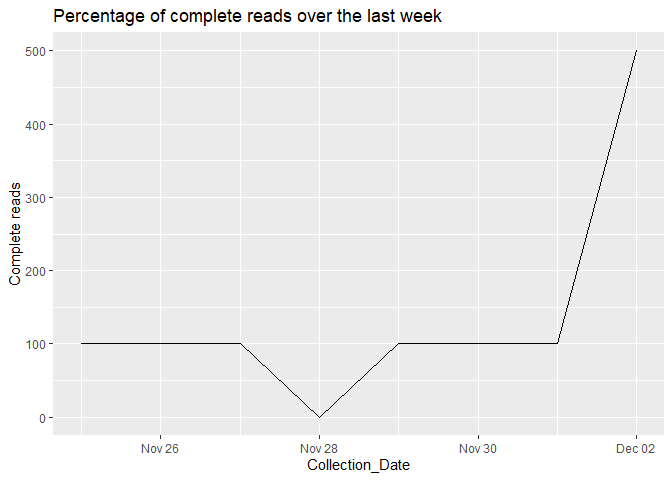
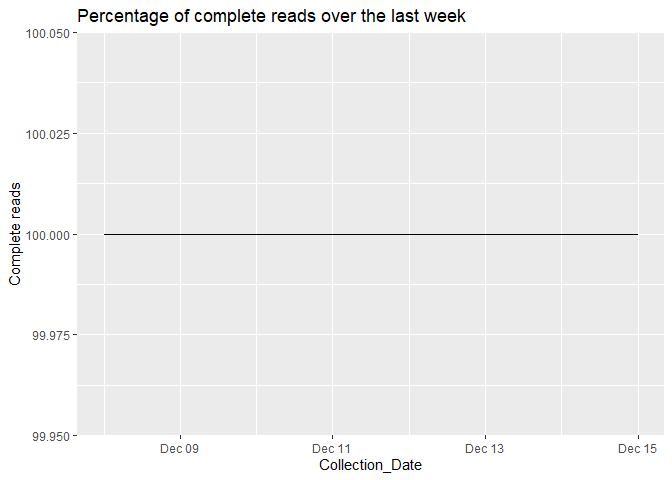
New tables

diff --git a/Greater_Sydney_Dam_Levels/readme.md b/Greater_Sydney_Dam_Levels/readme.md
@@ -1,28 +1,78 @@
-[![damlevel\_scrape.r](https://github.com/snazzyandy/Modelling-and-EDA/actions/workflows/greatersydscraper.yml/badge.svg)](https://github.com/snazzyandy/Modelling-and-EDA/actions/workflows/greatersydscraper.yml)
+Todays Greater Sydney Dam Report
+================
+Last updated on 16 December, 2023
 
-What Can we learn from the most recent readings
------------------------------------------------
+## Welcome to the Greater Sydney Dam Levels Daily Data Scraper
 
-    ## How has the scraper performed over the last week?
-    # Testing next to see if its deployed in the markdown on deploy
+This product is currently:
 
-    Percentage_Of_complete_daily_reads
+[![damlevel_scrape.r](https://github.com/snazzyandy/Modelling-and-EDA/actions/workflows/greatersydscraper.yml/badge.svg)](https://github.com/snazzyandy/Modelling-and-EDA/actions/workflows/greatersydscraper.yml)
 
-![](readme_files/figure-markdown_strict/graph-1.png)
+## What Can we learn from the most recent readings
 
-    #Based on a 120 day rolling average what date is warragamba likely to overflow or hit zero.
-    gg_dam_forecast_60
+``` r
+## How has the scraper performed over the last week?
+# Testing next to see if its deployed in the markdown on deploy
 
-![](readme_files/figure-markdown_strict/graph%202-1.png)
+Percentage_Of_complete_daily_reads
+```
 
-    gg_dam_forecast_30
+![](readme_files/figure-gfm/graph-1.png)<!-- -->
+
+``` r
+#Based off the most recent estimates we can derive the following dates the dams will reach empty.
+knitr::kable(Yesterdays_day_zeros)
+```
+
+| Variable                | Estimated_Day_zero_daily_depletion_rate | Estimated_Day_zero_weekly_depletion_rate | Estimated_Day_zero_monthly_depletion_rate | Estimated_Day_zero_60day_depletion_rate | Estimated_Day_zero_90day_depletion_rate | Estimated_Day_zero_120day_depletion_rate |
+|:------------------------|:----------------------------------------|:-----------------------------------------|:------------------------------------------|:----------------------------------------|:----------------------------------------|:-----------------------------------------|
+| Avon Dam                | NA                                      | 2024-03-14                               | 2025-07-19                                | 2035-02-11                              | 2032-05-29                              | 2037-09-09                               |
+| Blue Mountains Dams     | NA                                      | NA                                       | NA                                        | NA                                      | NA                                      | NA                                       |
+| Cataract Dam            | NA                                      | NA                                       | NA                                        | NA                                      | NA                                      | NA                                       |
+| Cordeaux Dam            | NA                                      | 2024-01-09                               | 2024-05-26                                | 2026-12-21                              | 2026-04-20                              | 2027-07-07                               |
+| Fitzroy Falls Reservoir | 2024-01-16                              | 2024-11-22                               | 2024-06-19                                | 2026-07-25                              | 2026-05-28                              | 2027-11-04                               |
+| Nepean Dam              | NA                                      | 2024-06-08                               | 2029-11-13                                | NA                                      | 2201-05-16                              | NA                                       |
+| Prospect Reservoir      | NA                                      | 2024-05-17                               | 2025-07-03                                | NA                                      | 2093-08-26                              | 2049-04-12                               |
+| Tallowa Dam             | NA                                      | NA                                       | NA                                        | NA                                      | NA                                      | NA                                       |
+| Warragamba Dam          | 2024-03-15                              | 2024-04-20                               | 2025-12-22                                | 2030-01-21                              | 2031-07-07                              | 2035-08-22                               |
+| Wingecarribee Reservoir | NA                                      | 2024-02-06                               | 2024-10-02                                | 2029-02-03                              | 2028-01-25                              | 2030-11-05                               |
+| Woronora Dam            | NA                                      | 2024-03-13                               | 2025-06-01                                | 2030-01-17                              | 2030-05-28                              | 2033-05-30                               |
+
+``` r
+#For those values that are NA, we expect the dam to spill over before they begin depleting again 
+knitr::kable(yesterdays_spillover_days)
+```
+
+| Variable                | Estimated_spillover_day_daily_capacity_rate | Estimated_spillover_day_weekly_capacity_rate | Estimated_spillover_day_60day_capacity_rate | Estimated_spillover_day_90day_capacity_rate | Estimated_spillover_day_120day_capacity_rate |
+|:------------------------|:--------------------------------------------|:---------------------------------------------|:--------------------------------------------|:--------------------------------------------|:---------------------------------------------|
+| Avon Dam                | NA                                          | NA                                           | NA                                          | NA                                          | NA                                           |
+| Blue Mountains Dams     | NA                                          | 2024-01-07                                   | 2027-10-15                                  | 2032-02-15                                  | 2031-09-23                                   |
+| Cataract Dam            | NA                                          | 2024-07-26                                   | 2026-11-06                                  | 2028-08-15                                  | 2032-04-23                                   |
+| Cordeaux Dam            | NA                                          | NA                                           | NA                                          | NA                                          | NA                                           |
+| Fitzroy Falls Reservoir | NA                                          | NA                                           | NA                                          | NA                                          | NA                                           |
+| Nepean Dam              | NA                                          | NA                                           | 2032-04-26                                  | NA                                          | 2049-08-17                                   |
+| Prospect Reservoir      | 2023-12-27                                  | NA                                           | 2025-02-15                                  | NA                                          | NA                                           |
+| Tallowa Dam             | NA                                          | 2023-12-15                                   | 2023-12-15                                  | 2023-12-15                                  | 2023-12-15                                   |
+| Warragamba Dam          | NA                                          | NA                                           | NA                                          | NA                                          | NA                                           |
+| Wingecarribee Reservoir | NA                                          | NA                                           | NA                                          | NA                                          | NA                                           |
+| Woronora Dam            | NA                                          | NA                                           | NA                                          | NA                                          | NA                                           |
+
+``` r
+#Based on a 120 day rolling average what date is warragamba likely to overflow or hit zero.
+gg_dam_forecast_60
+```
+
+![](readme_files/figure-gfm/graph%202-1.png)<!-- -->
+
+``` r
+gg_dam_forecast_30
+```
 
     ## Warning: Removed 3 rows containing missing values (`geom_line()`).
 
-![](readme_files/figure-markdown_strict/graph%202-2.png)
+![](readme_files/figure-gfm/graph%202-2.png)<!-- -->
 
-Why Scrape Greater Sydney Dam Levels?
--------------------------------------
+## Why Scrape Greater Sydney Dam Levels?
 
 A friend of mine mentioned that WaterNSW updated their website. However,
 like with most web facelifts, the websites’s functionality took a hit.
@@ -38,8 +88,7 @@ The data we are borrowing is from [this page on Water NSW’s
 site](https://www.waternsw.com.au/nsw-dams/nsw-storage-levels/greater-sydney-dam-levels)!
 ![Image](Images/WNSWScreenshot.png)
 
-Why Not use water insights?
----------------------------
+## Why Not use water insights?
 
 [The WNSW app Water
 insights](https://waterinsights.waternsw.com.au/12964-sydney-drinking-water-catchment/#!)
@@ -47,8 +96,7 @@ is a great product for most users but doesnt solve my daily data point
 query. Instead it offers weekly, monthly and yearly data series. For
 those looking for longitudinal data this is very useful!
 
-Where can i access the data?
-----------------------------
+## Where can i access the data?
 
 All these daily data extracts are available in the data folder. Open
 sourcing (MIT Licence) for those who are interested \#OpenData!
